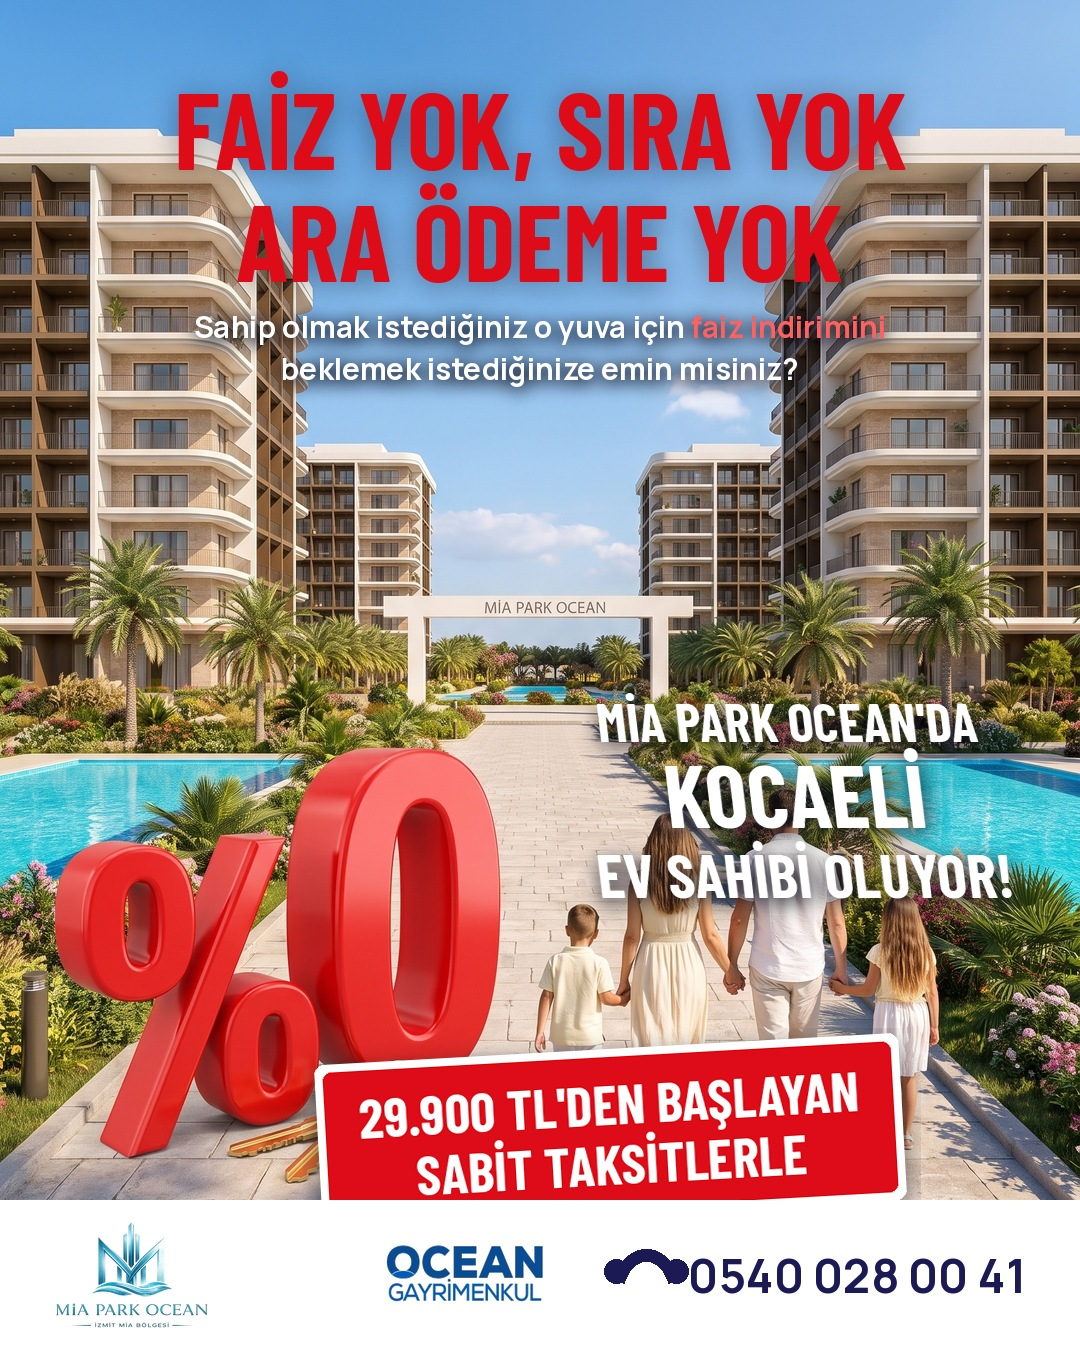
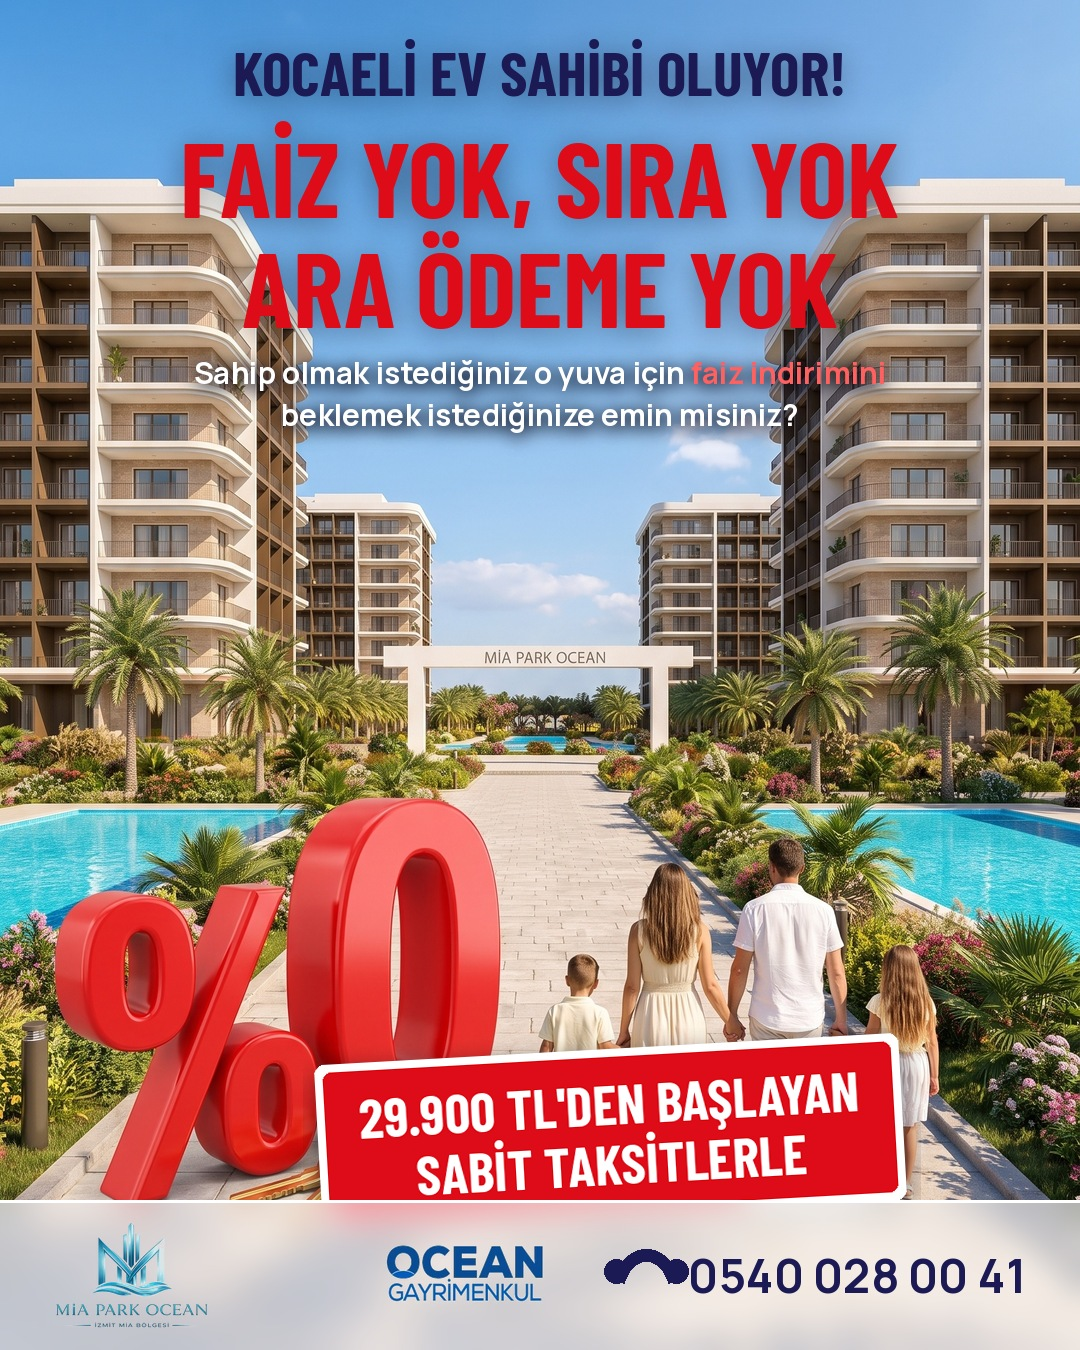
Kampanya görseli revize: üst slogan, sağ yazı kaldırıldı, şeffaf bant
Claude-Session: https://claude.ai/code/session_014vbWeo5uAXPs6zFw9SmWv2

diff --git a/scripts/build-kampanya-safak.py b/scripts/build-kampanya-safak.py
@@ -61,14 +61,14 @@ def golge_yaz(im, kat_ciz, blur=10, op=160, dx=0, dy=5):
 
 def main():
     hero = Image.open(GORSEL).convert("RGB")
-    s = max(W / hero.width, GOR_H / hero.height)
+    s = max(W / hero.width, H / hero.height)
     hero = hero.resize((round(hero.width * s), round(hero.height * s)),
                        Image.LANCZOS)
     x = (hero.width - W) // 2
     # dikeyde ne kadar yukarıdan kesileceği: aile ve anahtarlar kalsın,
     # üstte manşete yetecek kadar gök kalsın diye elle dengelendi
-    KIRP_Y = min(140, hero.height - GOR_H)
-    hero = hero.crop((x, KIRP_Y, x + W, KIRP_Y + GOR_H))
+    KIRP_Y = min(90, hero.height - H)
+    hero = hero.crop((x, KIRP_Y, x + W, KIRP_Y + H))
 
     im = Image.new("RGBA", (W, H), (*BEYAZ, 255))
     im.paste(hero, (0, 0))
@@ -77,10 +77,13 @@ def main():
 
     # ---- manşet: gökyüzünde iki satır kırmızı kondanse
     def manset(d):
-        f1 = barlow(108)
-        d.text((W / 2, 62), "FAİZ YOK, SIRA YOK", font=f1, fill=KIRMIZI,
+        f0 = barlow(62)
+        d.text((W / 2, 34), "KOCAELİ EV SAHİBİ OLUYOR!", font=f0, fill=NAVY,
                anchor="ma")
-        d.text((W / 2, 174), "ARA ÖDEME YOK", font=f1, fill=KIRMIZI,
+        f1 = barlow(106)
+        d.text((W / 2, 112), "FAİZ YOK, SIRA YOK", font=f1, fill=KIRMIZI,
+               anchor="ma")
+        d.text((W / 2, 222), "ARA ÖDEME YOK", font=f1, fill=KIRMIZI,
                anchor="ma")
 
     golge_yaz(im, manset, blur=14, op=70, dy=4)
@@ -93,38 +96,12 @@ def main():
     def altmetin(d):
         w1 = d.textlength(sat1a, font=f2) + d.textlength(sat1b, font=f2)
         x0 = (W - w1) / 2
-        d.text((x0, 306), sat1a, font=f2, fill=BEYAZ, anchor="la")
-        d.text((x0 + d.textlength(sat1a, font=f2), 306), sat1b, font=f2,
+        d.text((x0, 352), sat1a, font=f2, fill=BEYAZ, anchor="la")
+        d.text((x0 + d.textlength(sat1a, font=f2), 352), sat1b, font=f2,
                fill=(255, 96, 96), anchor="la")
-        d.text((W / 2, 348), sat2, font=f2, fill=BEYAZ, anchor="ma")
+        d.text((W / 2, 394), sat2, font=f2, fill=BEYAZ, anchor="ma")
 
     golge_yaz(im, altmetin, blur=9, op=255, dy=3)
-
-    # ---- sağ blok: eğik beyaz kampanya yazısı
-    def kampanya(d):
-        pass
-
-    kat = Image.new("RGBA", (W, H), (0, 0, 0, 0))
-    kd = ImageDraw.Draw(kat)
-    fk1 = barlow(54)
-    fk2 = barlow(88)
-    fk3 = barlow(62)
-    cx = 700
-    kd.text((cx, 742), "MİA PARK OCEAN'DA", font=fk1, fill=BEYAZ, anchor="ms")
-    kd.text((cx, 828), "KOCAELİ", font=fk2, fill=BEYAZ, anchor="ms")
-    kd.text((cx, 898), "EV SAHİBİ OLUYOR!", font=fk3, fill=BEYAZ, anchor="ms")
-    # hafif italik: yatay kaydırma (shear)
-    kat = kat.transform((W, H), Image.AFFINE, (1, -0.12, 0, 0, 1, 0),
-                        resample=Image.BICUBIC)
-
-    g = kat.filter(ImageFilter.GaussianBlur(10))
-    golge = Image.new("RGBA", (W, H), (0, 0, 0, 0))
-    golge.paste(g, (2, 6))
-    r, gg, b, a = golge.split()
-    golge = Image.merge("RGBA", (r.point(lambda v: 6), gg.point(lambda v: 10),
-                                 b.point(lambda v: 26), a))
-    im.alpha_composite(golge)
-    im.alpha_composite(kat)
 
     # ---- eğik etiket: beyaz taban + kırmızı üst, iki satır
     et1 = "29.900 TL'DEN BAŞLAYAN"
@@ -154,8 +131,13 @@ def main():
     im.alpha_composite(golge, (ex + 2, ey + 8))
     im.alpha_composite(etiket, (ex, ey))
 
-    # ---- beyaz marka bandı
-    dr.rectangle([0, GOR_H, W, H], fill=BEYAZ)
+    # ---- buzlu şeffaf marka bandı
+    bolge = im.crop((0, GOR_H, W, H)).filter(ImageFilter.GaussianBlur(16))
+    perde = Image.new("RGBA", (W, BAR_H), (255, 255, 255, 150))
+    bolge = Image.alpha_composite(bolge, perde)
+    dv = ImageDraw.Draw(bolge)
+    dv.rectangle([0, 0, W, 2], fill=(255, 255, 255, 180))
+    im.paste(bolge, (0, GOR_H))
 
     mia = Image.open(os.path.join(ROOT, "public", "brand",
                                   "logo-mia-2026.png")).convert("RGBA")
